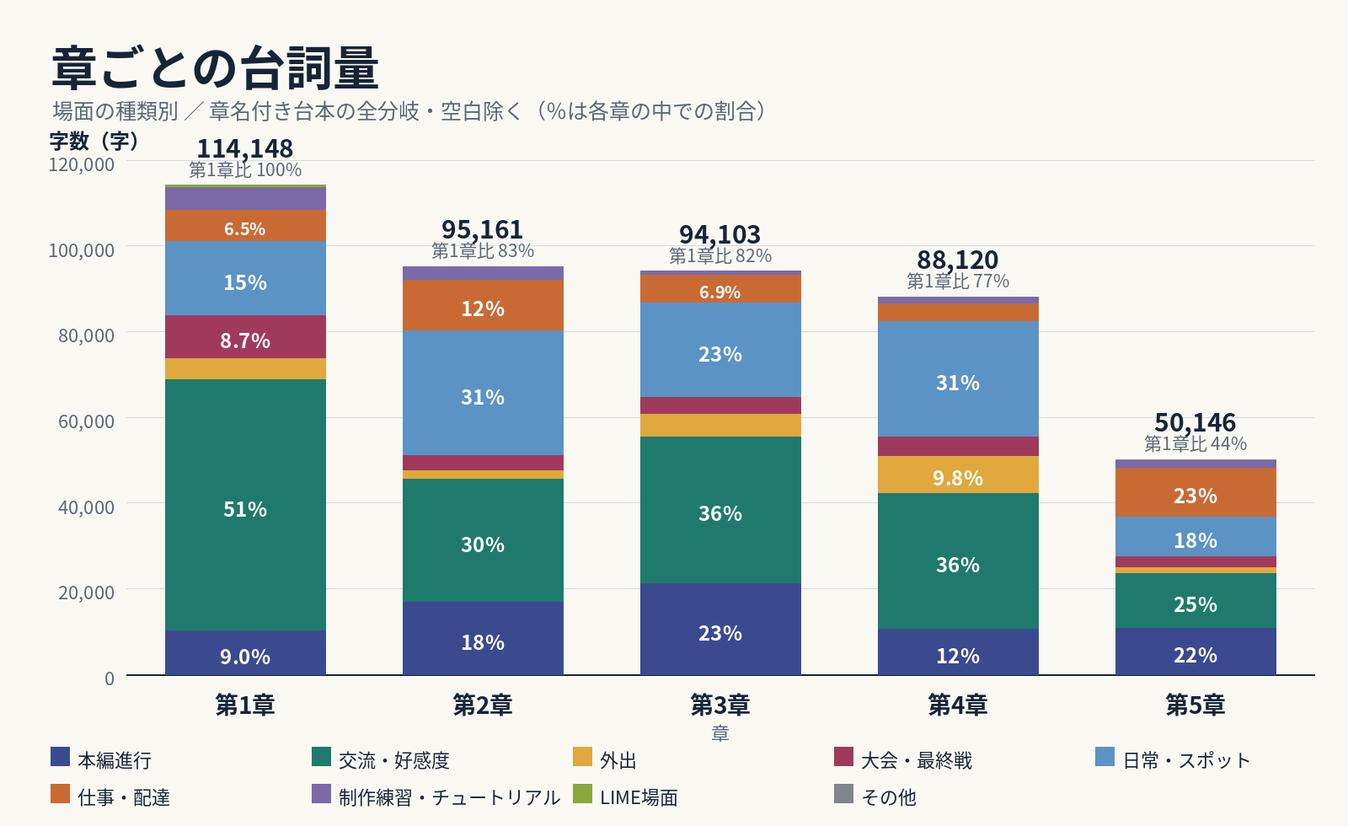
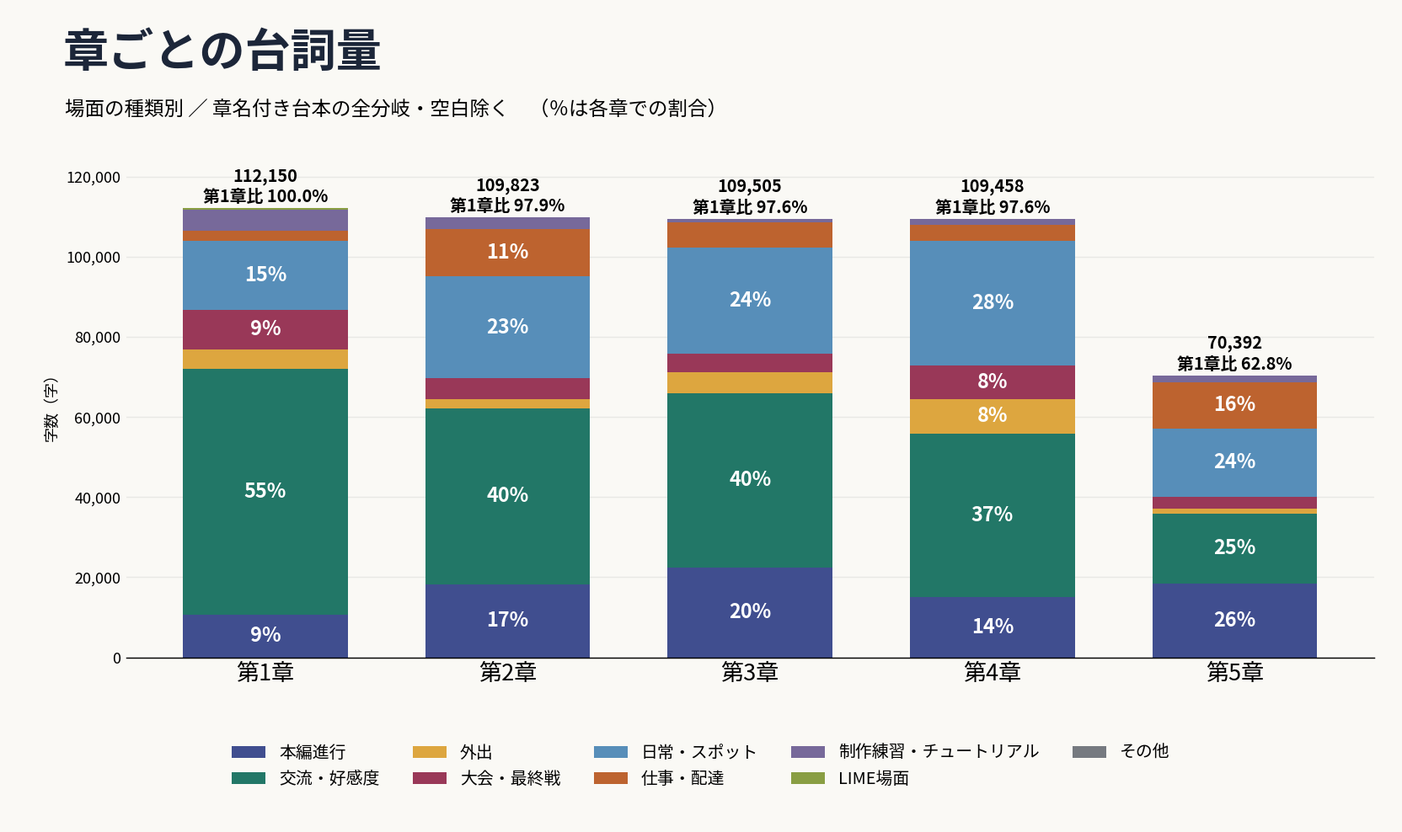
章別の台詞量を再集計し、交流と大会の増補を記録

diff --git a/tools/chapter_volume_breakdown.py b/tools/chapter_volume_breakdown.py
@@ -1,0 +1,124 @@
+#!/usr/bin/env python3
+"""章名付き台本の字数を、レポートの分類表に従ってCSVに出す。--chart でPNGも保存する。"""
+
+import argparse
+import csv
+import re
+import sys
+from collections import Counter, defaultdict
+from fnmatch import fnmatchcase
+from pathlib import Path
+
+from chapter_volume import ROOT, chapter_of, count_text, load_files
+
+REPORT = ROOT / "docs/reports/dialogue-volume-breakdown-3097.md"
+CATEGORIES = ("本編進行", "交流・好感度", "外出", "大会・最終戦", "日常・スポット", "仕事・配達",
+              "制作練習・チュートリアル", "LIME場面", "その他")
+
+
+def rules_from_report():
+    defaults = {}
+    exceptions = defaultdict(list)
+    section = ""
+    for line in REPORT.read_text(encoding="utf-8").splitlines():
+        if line.startswith("#"):
+            section = line
+        if not line.startswith("|"):
+            continue
+        cells = [cell.strip() for cell in line.strip("|").split("|")]
+        if section == "### ファイルごとの基本分類" and cells[0] in CATEGORIES:
+            for name in re.findall(r"`([^`]+)`", cells[1]):
+                if name in defaults:
+                    raise ValueError(f"基本分類が重複: {name}")
+                defaults[name] = cells[0]
+        if section == "### 場面IDで上書きする分類" and cells[0].startswith("`"):
+            name, category, patterns = cells
+            if category not in CATEGORIES:
+                raise ValueError(category)
+            exceptions[name.strip("`")].extend((p, category) for p in re.findall(r"`([^`]+)`", patterns))
+    return defaults, exceptions
+
+
+def breakdown(files):
+    defaults, exceptions = rules_from_report()
+    if files.keys() != defaults.keys():
+        raise ValueError(f"対象ファイルと分類表の差: {sorted(files.keys() ^ defaults.keys())}")
+    rows = defaultdict(Counter)
+    for name, data in files.items():
+        subtotal = 0
+        for scene in data["dialogues"]:
+            scene_id = scene["dialogue_id"]
+            matches = [cat for pattern, cat in exceptions[name] if fnmatchcase(scene_id, pattern)]
+            if len(matches) > 1:
+                raise ValueError(f"分類が重複: {name}/{scene_id}")
+            chars = count_text(scene)
+            rows[chapter_of(name)][matches[0] if matches else defaults[name]] += chars
+            subtotal += chars
+        if subtotal != count_text(data):
+            raise ValueError(f"場面合計とファイルの文字数が不一致: {name}")
+    return rows
+
+
+def draw_chart(rows, output, font):
+    import matplotlib
+    matplotlib.use("Agg")
+    import matplotlib.pyplot as plt
+    from matplotlib import font_manager, ticker
+
+    if font:
+        font_manager.fontManager.addfont(font)
+        plt.rcParams["font.family"] = font_manager.FontProperties(fname=font).get_name()
+    else:
+        plt.rcParams["font.family"] = ["Noto Sans CJK JP", "sans-serif"]
+    colors = ["#404e8f", "#227767", "#dda63f", "#993858", "#578eb9",
+              "#bd632f", "#77699a", "#899e43", "#767a80"]
+    chapters = sorted(rows)
+    totals = [sum(rows[ch].values()) for ch in chapters]
+    bottom = [0] * len(chapters)
+    fig, ax = plt.subplots(figsize=(12.8, 7.6))
+    fig.subplots_adjust(left=.09, right=.98, top=.82, bottom=.21)
+    fig.patch.set_facecolor("#faf9f5")
+    ax.set_facecolor("#faf9f5")
+    fig.text(.045, .92, "章ごとの台詞量", fontsize=30, weight="bold", color="#1c2639")
+    fig.text(.046, .862, "場面の種類別 ／ 章名付き台本の全分岐・空白除く　（％は各章での割合）", fontsize=13)
+    for category, color in zip(CATEGORIES, colors):
+        values = [rows[ch][category] for ch in chapters]
+        ax.bar(chapters, values, .68, bottom=bottom, color=color, label=category)
+        for i, value in enumerate(values):
+            if value >= max(totals) * .061:
+                ax.text(chapters[i], bottom[i] + value / 2, f"{100 * value / totals[i]:.0f}%",
+                        ha="center", va="center", color="white", weight="bold", fontsize=13)
+            bottom[i] += value
+    for ch, total in zip(chapters, totals):
+        ax.annotate(f"{total:,}\n第1章比 {100 * total / totals[0]:.1f}%", (ch, total),
+                    xytext=(0, 4), textcoords="offset points", ha="center", fontsize=11, weight="bold")
+    ax.set_xticks(chapters, [f"第{ch}章" for ch in chapters], fontsize=15)
+    ax.set_ylim(0, max(totals) * 1.13)
+    ax.yaxis.set_major_formatter(ticker.StrMethodFormatter("{x:,.0f}"))
+    ax.set_ylabel("字数（字）")
+    ax.grid(axis="y", alpha=.23)
+    ax.set_axisbelow(True)
+    for side in ["top", "right", "left"]:
+        ax.spines[side].set_visible(False)
+    ax.tick_params(length=0)
+    fig.legend(loc="lower center", ncol=5, frameon=False, fontsize=11, bbox_to_anchor=(.5, .035))
+    fig.savefig(output, dpi=130)
+    plt.close(fig)
+
+
+def main():
+    parser = argparse.ArgumentParser(description=__doc__)
+    parser.add_argument("--chart", type=Path, help="積み上げ棒グラフの保存先（要matplotlibと日本語フォント）")
+    parser.add_argument("--font", help="グラフ用日本語フォントのパス")
+    args = parser.parse_args()
+    rows = breakdown(load_files(None))
+    writer = csv.writer(sys.stdout, lineterminator="\n")
+    writer.writerow(("章", *CATEGORIES, "合計"))
+    for chapter, counts in sorted(rows.items()):
+        writer.writerow((chapter, *(counts[c] for c in CATEGORIES), sum(counts.values())))
+    if args.chart:
+        draw_chart(rows, args.chart, args.font)
+
+
+if __name__ == "__main__":
+    main()

diff --git a/docs/reports/dialogue-volume-breakdown-3097.md b/docs/reports/dialogue-volume-breakdown-3097.md
@@ -1,45 +1,53 @@
-# 台詞量の内訳（章 × 場面の種類）
+# 章ごとの台詞量と場面別の内訳
 
-計測対象は main の `1a8299ad8864452220b71302d8ed97320eb740ed`。
+2026年11月28日、main の [bfec5e97](https://github.com/haseatsu114514-dot/shisha-game/commit/bfec5e970921432cabf2b1be2f3abcd0e019e4a0) を集計。**全台本フォルダーの本文は833,935字**。このうち章名付き80ファイルが511,328字、章名のない47ファイルが322,607字。以下のグラフと表は、前回と同じく章名付き台本の全分岐を対象とする。1回のプレイで読む字数は、選択肢・訪問先・交友関係で変わる。
 
-章名付き台本の全分岐を集計。構成比は各章の総字数が分母で、小数第2位への丸めにより表示値の和に端数が出る。
+![章ごとの台詞量を9種類の場面に分けた積み上げ棒グラフ](dialogue-volume-breakdown-3097.png)
 
 ## 字数
 
 | 章 | 本編進行 | 交流・好感度 | 外出 | 大会・最終戦 | 日常・スポット | 仕事・配達 | 制作練習・チュートリアル | LIME場面 | その他 | 合計 |
 | --- | ---: | ---: | ---: | ---: | ---: | ---: | ---: | ---: | ---: | ---: |
-| 第1章 | 10,258 | 58,752 | 4,930 | 9,983 | 17,223 | 7,385 | 5,202 | 415 | 0 | 114,148 |
-| 第2章 | 16,975 | 28,672 | 2,068 | 3,470 | 29,218 | 11,833 | 2,925 | 0 | 0 | 95,161 |
-| 第3章 | 21,378 | 34,252 | 5,285 | 3,859 | 22,066 | 6,463 | 800 | 0 | 0 | 94,103 |
-| 第4章 | 10,637 | 31,799 | 8,653 | 4,560 | 26,926 | 4,011 | 1,534 | 0 | 0 | 88,120 |
-| 第5章 | 11,002 | 12,781 | 1,280 | 2,674 | 9,164 | 11,478 | 1,659 | 0 | 108 | 50,146 |
+| 第1章 | 10,643 | 61,349 | 4,930 | 9,918 | 17,250 | 2,437 | 5,208 | 415 | 0 | 112,150 |
+| 第2章 | 18,270 | 43,976 | 2,304 | 5,138 | 25,374 | 11,834 | 2,927 | 0 | 0 | 109,823 |
+| 第3章 | 22,416 | 43,561 | 5,281 | 4,591 | 26,393 | 6,463 | 800 | 0 | 0 | 109,505 |
+| 第4章 | 15,117 | 40,708 | 8,640 | 8,499 | 30,949 | 4,011 | 1,534 | 0 | 0 | 109,458 |
+| 第5章 | 18,502 | 17,325 | 1,280 | 2,977 | 17,006 | 11,611 | 1,691 | 0 | 0 | 70,392 |
+| 全章 | 84,948 | 206,919 | 22,435 | 31,123 | 116,972 | 36,356 | 12,160 | 415 | 0 | 511,328 |
 
 ## 章ごとの構成比
 
 | 章 | 本編進行 | 交流・好感度 | 外出 | 大会・最終戦 | 日常・スポット | 仕事・配達 | 制作練習・チュートリアル | LIME場面 | その他 | 合計 |
 | --- | ---: | ---: | ---: | ---: | ---: | ---: | ---: | ---: | ---: | ---: |
-| 第1章 | 8.99% | 51.47% | 4.32% | 8.75% | 15.09% | 6.47% | 4.56% | 0.36% | 0.00% | 100.00% |
-| 第2章 | 17.84% | 30.13% | 2.17% | 3.65% | 30.70% | 12.43% | 3.07% | 0.00% | 0.00% | 100.00% |
-| 第3章 | 22.72% | 36.40% | 5.62% | 4.10% | 23.45% | 6.87% | 0.85% | 0.00% | 0.00% | 100.00% |
-| 第4章 | 12.07% | 36.09% | 9.82% | 5.17% | 30.56% | 4.55% | 1.74% | 0.00% | 0.00% | 100.00% |
-| 第5章 | 21.94% | 25.49% | 2.55% | 5.33% | 18.27% | 22.89% | 3.31% | 0.00% | 0.22% | 100.00% |
+| 第1章 | 9.49% | 54.70% | 4.40% | 8.84% | 15.38% | 2.17% | 4.64% | 0.37% | 0.00% | 100% |
+| 第2章 | 16.64% | 40.04% | 2.10% | 4.68% | 23.10% | 10.78% | 2.67% | 0.00% | 0.00% | 100% |
+| 第3章 | 20.47% | 39.78% | 4.82% | 4.19% | 24.10% | 5.90% | 0.73% | 0.00% | 0.00% | 100% |
+| 第4章 | 13.81% | 37.19% | 7.89% | 7.76% | 28.27% | 3.66% | 1.40% | 0.00% | 0.00% | 100% |
+| 第5章 | 26.28% | 24.61% | 1.82% | 4.23% | 24.16% | 16.49% | 2.40% | 0.00% | 0.00% | 100% |
 
-## 要点
+## 交流と大会の再点検（VOL23）
 
-- 第1章は交流・好感度が最多で、58,752字（51.47%）。
-- 第2章は日常・スポットが29,218字（30.70%）で、交流・好感度の28,672字を上回る。第3章は本編進行が5章中最多の21,378字。
-- 第4章は外出が5章中最多の8,653字。第5章では仕事・配達が11,478字（22.89%）で、このうち出張シーシャの依頼と事業発足の台本が10,961字。
-- その他は全4場面・108字。LIME場面の欄には章名付き台本内でLIMEのメッセージを読む場面が入る。LIME専用データは集計範囲外。
+第2〜4章の総量は第1章の97.6〜97.9%。交流・好感度は第1章の61,349字に対して、第2章43,976字、第3章43,561字、第4章40,708字。第4章には別枠の外出8,640字と日常・スポット30,949字があり、ツアーや現地での再訪でも人と話す。各枠の字数と、実際に誰とどこで会話できるかを併せて判断した。
 
-## グラフ
+| 章 | 任意で読める交流 | 大会中とその後 |
+| --- | --- | --- |
+| 第2章 | 地元の店で7人に計30場面。みんとの傘の話、つむぎが客席で聞く炭の音など、通うと前と違う話を聞ける。 | 提供・調整の合間と講評待ちに出場者が話す。終了後に自分の一台を吸い、苺の香りまで遠く感じる場面は、はじめの感覚に集中する。 |
+| 第3章 | mukaiの奥の部屋で休むと、連絡先を知っている地元の10人から計17本（6,844字）の候補。初回の休みは部屋で過ごし、先約のある夜や来訪中の相手には条件が付く。 | 全国大会は最後に台から手を離した四人のやりとりまである。優勝の夜は奥の部屋に一人で戻り、スミさんに連絡する。 |
+| 第4章 | 宿で昼に休むと、現地に来ていない知人13人から計20本（6,316字）の候補。初回の休みを終えてから、読める相手の一人目の電話を二本目より先に選ぶ。 | 世界大会では客席の声が入り、優勝後には朝に送り出した人が客席から降りてくる。来場者から恋人を先に最大4人。その日の顔ぶれで台詞が変わる。 |
 
-![章ごとの台詞字数を場面の種類で色分けした積み上げ棒グラフ](dialogue-volume-breakdown-3097.png)
+共通台本 `tournament_craft.json` は章別グラフの範囲外。例として、章指定のある幕間（`interlude1/2/3` と `interlude_pull`）、工程終了（`roundend`）、客席（`stands`）だけでも、第2章16場面・1,565字、第3章3場面・490字、第4章27場面・1,540字ある。勝敗や票、来場者による差分を含む。[大会中の台本選択](../../remake/js/craft/tournament-story-data.js)
+
+**VOL23は今回の増補分を完了とした。** 当初薄かった地元の顔なじみとの再訪・電話と、大会途中の待ち時間・来場者の応援に、実装上の入口と台本の両方を確認した。第2章の味が遠のく場面、第3章の優勝の夜には会話を追加しない。第5章はもともと増量目標の対象外。
+
+## LIMEの読み方
+
+グラフの415字は、第1章の章名付き台本でなる・アダムのメッセージを読む2場面。受信箱には別データから全章のメッセージが届く。朝の通常枠は2通、重要な連絡が重なると最大3通で、シフトの誘いは別枠。同じ人の普段の雑談は関係に応じて2〜6日空け、雑談が2朝続くと次の朝は休む。仕事を除く未読が3通以上ある間も日常の雑談を抑える。ここで示したのは配信条件で、プレイ中の平均受信数は未計測。[朝の配信条件](../../remake/js/daily/lime-pacing.js)
 
 ## 集計方法と分類の定義
 
 [既存の章別計測](../../tools/chapter_volume.py)の `load_files`、`chapter_of`、`count_text` を再利用した。対象は `data/dialogue/` 直下の `chN*.json` と `remake_chN*.json`（Nは1〜5）。各 `dialogues[]` 要素の `text` 文字列を再帰走査し、Pythonの正規表現 `\s` に一致する空白を除いた文字数を足した。選択肢や条件で分かれる本文も、`text` で保存されていれば一律に含む。場面件数は `dialogues[]` の要素数で、分岐数・周回時の再生数・プレイヤーが一度のプレイで読む量には換算しない。台本内の置換用文字列は保存されている形で数えた。JS内の文言、章名のない台本、LIME専用データ（`lime_*.json` や `data/lime_messages.json`）は対象外。
 
-章はファイル名で決める。例えば、`ch3_ch4_home.json` の `ch4_prep_adam` は第3章、`remake_ch1.json` にある第2〜5章用のシフト差分は第1章に入る。
+章はファイル名で決める。例えば、`ch3_ch4_home.json` の `ch4_prep_adam` は第3章に入る。
 
 | 種類 | 判定に使った場面・進行定義 |
 |---|---|
@@ -51,7 +59,7 @@
 | 仕事・配達 | 店のシフト、店番・仕事の手伝い、買い出し・配達、出張シーシャ。`daily/calendar.js`、`ch3-outing-progress.js` の手伝い・店番、`ch4-staff-work-progress.js`、`ch5-catering.js` などを参照。 |
 | 制作練習・チュートリアル | 初回の遊び方、成長盤の案内、制作の試作・リハーサルやその講評。`first-brew.js`、`daily/reflection.js`、`ch2-craft-prep.js`、`ch4-inn-trial.js`、`ch5-sumi-trial.js` などを参照。 |
 | LIME場面 | 第1章の大会後、なる・アダムからのLIME本文を章名付き台本で再生する2場面。対面でLIMEを交換する場面は交流・好感度。 |
-| その他 | 進行上の種類を割り当てられない未接続・テスト用・空の台本。下表に全件を記載。 |
+| その他 | 進行上の種類を割り当てられない未接続・テスト用・空の台本。今回の該当は0件。 |
 
 進行・行動を確認してファイルごとに基本の種類を割り当て、複数の種類を含むファイルでは下表の場面IDを優先した。1つの要素は1種類にだけ入る。`*` は末尾の任意の文字列（0文字も含む）。ファイル名は `data/dialogue/` からの相対名で、拡張子 `.json` を省略した。
 
@@ -60,7 +68,7 @@
 | 種類 | ファイル |
 | --- | --- |
 | 本編進行 | `ch1_main`, `ch1_interval`, `ch2_choice_echoes`, `ch2_isolation`, `ch2_main`, `ch2_story_extra`, `remake_ch2`, `ch3_departure`, `ch3_double_apple`, `ch3_main`, `ch3_prologue`, `ch4_dubai_story`, `ch4_main`, `ch5_main`, `ch5_party` |
-| 交流・好感度 | `ch1_adam`, `ch1_ageha`, `ch1_bonds`, `ch1_events`, `ch1_minto`, `ch1_naru`, `ch1_rio`, `ch1_sumi`, `ch1_tsumugi`, `ch2_ageha_story`, `ch2_kumicho`, `ch2_preparation`, `ch2_rei`, `ch3_ch4_home`, `ch3_growth_party`, `ch3_mashiro`, `ch3_rivals`, `ch3_saku_mashiro`, `ch3_tsumugi`, `ch3_volk`, `ch4_ageha_dubai`, `ch4_arrival_daily`, `ch4_companion`, `ch4_guests_dubai`, `ch4_longlong`, `ch4_lovers`, `ch4_mashiro_dubai`, `ch4_minto_dubai`, `ch4_prep_home`, `ch4_rio_dubai`, `ch4_tsumugi_dubai`, `ch4_visitors` |
+| 交流・好感度 | `ch1_adam`, `ch1_ageha`, `ch1_bonds`, `ch1_events`, `ch1_minto`, `ch1_naru`, `ch1_rio`, `ch1_sumi`, `ch1_tsumugi`, `ch2_ageha_story`, `ch2_kumicho`, `ch2_preparation`, `ch2_rei`, `ch3_ch4_home`, `ch3_growth_party`, `ch3_home_calls`, `ch3_mashiro`, `ch3_rivals`, `ch3_saku_mashiro`, `ch3_tsumugi`, `ch3_volk`, `ch4_ageha_dubai`, `ch4_arrival_daily`, `ch4_companion`, `ch4_guests_dubai`, `ch4_home_calls`, `ch4_longlong`, `ch4_lovers`, `ch4_mashiro_dubai`, `ch4_minto_dubai`, `ch4_prep_home`, `ch4_rio_dubai`, `ch4_tsumugi_dubai`, `ch4_visitors` |
 | 外出 | `ch3_visits`, `ch4_beach`, `ch4_tour` |
 | 大会・最終戦 | `ch1_tournament`, `ch2_tournament`, `ch4_morning` |
 | 日常・スポット | `ch1_incognito`, `ch1_spots`, `ch2_city`, `ch2_city_guests`, `ch2_home`, `ch3_activities`, `ch3_club`, `ch3_mukai`, `ch3_outings`, `ch3_tokyo_daily`, `ch4_camel_race`, `ch4_desert`, `ch4_dubai_daily`, `ch4_spots`, `ch5_dubai`, `ch5_shops`, `ch5_tokyo`, `remake_ch1` |
@@ -86,13 +94,13 @@
 | `remake_ch1` | 制作練習・チュートリアル | `remake_tutorial_*`, `remake_first_brew_*`, `remake_midcheck*`, `remake_rehearsal_*`, `remake_preparation_*`, `remake_naru_match*`, `remake_staff_practice` |
 | `remake_ch1` | 大会・最終戦 | `remake_round*`, `remake_judging_intro`, `remake_defeat_follow`, `remake_sick_tournament` |
 | `remake_ch1` | 本編進行 | `remake_sick_half`, `remake_sick_full`, `remake_homecoming_*` |
-| `remake_ch1` | 仕事・配達 | `remake_baito*`, `remake_day1_errand_*`, `remake_delivery_*`, `remake_lemon_gift`, `shift_flavor_*`, `shift_recall_*`, `shift_return_*` |
+| `remake_ch1` | 仕事・配達 | `remake_baito*`, `remake_day1_errand_*`, `remake_delivery_*`, `remake_lemon_gift` |
 | `remake_ch1` | 交流・好感度 | `remake_shuraba_*` |
 | `ch2_ageha_story` | 本編進行 | `remake_ch2_ageha_scout`, `remake_ch2_ageha_tasting`, `remake_ch2_ageha_slump` |
-| `ch2_deliveries` | 日常・スポット | `remake_ch2_aquarium_*`, `remake_ch2_sento_*`, `remake_ch2_chain_*`, `remake_ch2_purikura_solo` |
-| `ch2_deliveries` | 外出 | `remake_ch2_ageha_purikura`, `remake_ch2_purikura_invite`, `remake_ch2_purikura_pair`, `remake_ch2_purikura_guest`, `remake_ch2_purikura_ryuji`, `remake_ch2_rei_purikura_after` |
-| `ch2_deliveries` | 交流・好感度 | `remake_ch2_rei_trpg`, `remake_ch2_ageha_aquarium`, `remake_ch2_kumicho_sento`, `remake_ch2_ryuji_melty_greeting`, `remake_ch2_rei_melty_greeting` |
-| `ch2_home` | 交流・好感度 | `ch2_rio_taste`, `ch2_rio_strawberry` |
+| `ch2_deliveries` | 日常・スポット | `remake_ch2_aquarium_*`, `remake_ch2_sento_*`, `remake_ch2_chain_*`, `remake_ch2_purikura_solo*` |
+| `ch2_deliveries` | 外出 | `remake_ch2_ageha_purikura`, `remake_ch2_purikura_invite`, `remake_ch2_purikura_match`, `remake_ch2_purikura_choose`, `remake_ch2_purikura_trio`, `remake_ch2_purikura_pair`, `remake_ch2_purikura_guest`, `remake_ch2_purikura_ryuji`, `remake_ch2_kuraudo_purikura_after` |
+| `ch2_deliveries` | 交流・好感度 | `remake_ch2_kuraudo_trpg`, `remake_ch2_ageha_aquarium`, `remake_ch2_kumicho_sento`, `remake_ch2_ryuji_melty_greeting`, `remake_ch2_kuraudo_melty_greeting` |
+| `ch2_home` | 交流・好感度 | `ch2_rio_*`, `ch2_minto_*`, `ch2_adam_*`, `ch2_samechan_*`, `ch2_hiyori_*`, `ch2_naru_*`, `ch2_tsumugi_*` |
 | `ch2_home` | 制作練習・チュートリアル | `ch2_prep_*` |
 | `ch2_kumicho` | 外出 | `outing_*` |
 | `ch2_main` | 制作練習・チュートリアル | `ch2_strawberry_trial_*` |
@@ -101,7 +109,7 @@
 | `ch3_mukai` | 本編進行 | `ch3_mukai_intro`, `ch3_cigarman_rumor`, `ch3_cigarman_shadow`, `ch3_cigarman_trace` |
 | `ch3_outings` | 仕事・配達 | `ch3_outing_mukai_help*`, `ch3_outing_mukai_steve*` |
 | `ch3_outings` | 外出 | `ch3_outing_enmaku_notes`, `ch3_outing_enmaku_answer`, `ch3_outing_steve_timer` |
-| `ch3_rivals` | 本編進行 | `ch3_saku_first`, `ch3_saku_advice`, `ch3_steve_low_heat` |
+| `ch3_rivals` | 本編進行 | `ch3_ayatori_first`, `ch3_ayatori_advice`, `ch3_steve_low_heat` |
 | `ch3_rivals` | 外出 | `outing_*` |
 | `ch3_volk` | 本編進行 | `ch3_volk_first` |
 | `ch3_volk` | 外出 | `outing_*` |
@@ -110,48 +118,29 @@
 | `ch4_dubai_daily` | 交流・好感度 | `ch4_naru_dubai_*`, `ch4_sumi_call_*` |
 | `ch4_dubai_daily` | 制作練習・チュートリアル | `ch4_inn_trial_*`, `ch4_rehearsal_*` |
 | `ch4_longlong` | 日常・スポット | `ch4_longlong_visit_*` |
-| `ch4_main` | 大会・最終戦 | `ch4_wang_reception*`, `ch4_tournament_start`, `ch4_final`, `ch4_result`, `ch4_defeat`, `ch4_sui_old_rival` |
+| `ch4_main` | 大会・最終戦 | `ch4_wang_reception*`, `ch4_tournament_start`, `ch4_final`, `ch4_result`, `ch4_defeat`, `ch4_sensu_old_rival` |
 | `ch4_main` | 日常・スポット | `ch4_festa_revisit`, `ch4_alley_cafe_quiet`, `ch4_dubai_souq_revisit`, `ch4_dubai_cafe_revisit`, `ch4_inn_tool_care` |
 | `ch4_main` | 交流・好感度 | `ch4_samechan_dubai_evening`, `ch4_hiyori_dubai_evening` |
-| `ch4_spots` | その他 | `ch4_return` |
 | `ch5_dubai` | 外出 | `ch5_dubai_go`, `ch5_dubai_back`, `ch5_dubai_arrival` |
 | `ch5_dubai` | 交流・好感度 | `ch5_noor_*`, `ch5_dubai_sheikh*`, `ch5_dubai_taiyo*` |
 | `ch5_main` | 大会・最終戦 | `ch5_match_day_arrival`, `ch5_copy_first_cup`, `ch5_relationship_before_second_cup`, `ch5_second_cup_*`, `ch5_prep_recall_*`, `ch5_sumi_trial_recall_*` |
 | `ch5_main` | 日常・スポット | `ch5_wang_tonari_visit`, `ch5_free_first_visitor` |
-| `ch5_main` | 交流・好感度 | `ch5_free_mashiro_visit*`, `ch5_free_eden_adam`, `ch5_tsumugi_*` |
+| `ch5_main` | 交流・好感度 | `ch5_free_mashiro_visit*`, `ch5_free_eden_adam`, `ch5_tsumugi_serving`, `ch5_tsumugi_makes_for_hajime`, `ch5_tsumugi_busy_night`, `ch5_tsumugi_little_notes`, `ch5_tsumugi_counsel`, `ch5_tsumugi_menu_board` |
 | `ch5_main` | 制作練習・チュートリアル | `ch5_free_tonari_practice`, `ch5_prep_trial_*`, `ch5_prep_adjust_*`, `ch5_prep_keep`, `ch5_sumi_trial_intro`, `ch5_sumi_trial_great`, `ch5_sumi_trial_holes`, `ch5_sumi_trial_heat`, `ch5_sumi_trial_steam`, `ch5_sumi_trial_pull`, `ch5_sumi_trial_failed` |
-| `ch5_main` | その他 | `ch5_dream_in`, `ch5_dream_out`, `ch5_reflection_placeholder` |
 | `ch5_shops` | 交流・好感度 | `ch5_ageha_lover_*`, `ch5_rio_naru_*` |
 | `ch5_tokyo` | 外出 | `ch5_tokyo_van_first`, `ch5_tokyo_go`, `ch5_tokyo_back`, `ch5_tokyo_arrival` |
 | `ch5_tokyo` | 仕事・配達 | `ch5_tokyo_mukai_help*` |
-| `ch5_tokyo` | 交流・好感度 | `ch5_tokyo_steve*`, `ch5_tokyo_volk*`, `ch5_tokyo_saku*`, `ch5_steve_bond_finale`, `ch5_volk_bond_finale` |
+| `ch5_tokyo` | 交流・好感度 | `ch5_tokyo_steve*`, `ch5_tokyo_volk*`, `ch5_tokyo_saku*`, `ch5_tokyo_ayatori*`, `ch5_tokyo_mashiro*`, `ch5_steve_bond_finale`, `ch5_volk_bond_finale` |
 
-### その他の件数と字数
+## 検算と再集計
 
-| 章 | 件数 | 字数 |
-| --- | ---: | ---: |
-| 第1章 | 0 | 0 |
-| 第2章 | 0 | 0 |
-| 第3章 | 0 | 0 |
-| 第4章 | 1 | 0 |
-| 第5章 | 3 | 108 |
-| 合計 | 4 | 108 |
+章名付き80ファイル・1,666場面を分類した。各ファイルで場面合計とJSON全体の `text` の字数が一致し、各章の合計も `tools/chapter_volume.py` の結果と一致する。全台本フォルダーの字数には `data/dialogue/*.json` の同じ本文キーを使用した。フォルダー外の受信箱データ、JS内の台詞、画面の項目名などはこの総数に含めていない。
 
-| ファイル | 場面ID | 字数 | 理由 |
-| --- | --- | --- | --- |
-| `ch4_spots.json` | `ch4_return` | 0 | 空の台本（`ch4-progress.js` に未接続の記載） |
-| `ch5_main.json` | `ch5_dream_in` | 40 | 挿入位置未定（`ch5-progress.js`） |
-| `ch5_main.json` | `ch5_dream_out` | 31 | 挿入位置未定（`ch5-progress.js`） |
-| `ch5_main.json` | `ch5_reflection_placeholder` | 37 | テスト専用（`ch5-progress.js`） |
+今回の分類では、第2章の店で人物本人と話す7人分と第3・4章の地元からの電話を交流に計上した。人物の改名は現在の場面IDに合わせた。第5章のつむぎ視点で始まる8場面は本編、店でのつむぎの訪問6場面は交流に分けた。上表が再集計時の分類表になる。
 
-## 検算
+```sh
+python3 tools/chapter_volume_breakdown.py > chapter-volume.csv
+python3 tools/chapter_volume_breakdown.py --chart chapter-volume.png
+```
 
-全78ファイル・1,465場面を集計し、第1〜5章で既知の総量および `tools/chapter_volume.py` の再実行結果と一致（各章の差は0字）。 各ファイルで場面ごとの総和がJSON全体の `text` の字数と等しいこと、分類規則に重複がないことも確認した。
-
-| 章 | 分類の合計 | 既知の総量 | 差 |
-| --- | ---: | ---: | ---: |
-| 第1章 | 114,148 | 114,148 | 0 |
-| 第2章 | 95,161 | 95,161 | 0 |
-| 第3章 | 94,103 | 94,103 | 0 |
-| 第4章 | 88,120 | 88,120 | 0 |
-| 第5章 | 50,146 | 50,146 | 0 |
+CSV出力はPython標準ライブラリのみで動く。グラフにはmatplotlibと日本語フォントを使用する。`--font` でフォントのファイルを指定できる。

diff --git a/docs/owner_requests.md b/docs/owner_requests.md
@@ -676,7 +676,7 @@
 | VOL20 | ✅ #4083・#4088（計画の3つ） | **交友を第2章以降も厚く**: 第1章の顔ぶれ（スミさん・アダム・凛想・神崎・サメちゃん・クラウドなど）が第2章以降でほとんど話さなくなる（第3章は各0.2〜0.7千字）のが差の中心。会える章は店で、離れている章は電話で、関係を続ける（恋愛の段階は進めない普段の会話）。**第1弾（#4083）**: 第3章、東京の奥の部屋で休むと地元から電話が来る（`data/dialogue/ch3_home_calls.json` の7本・2,775字。LIMEの連絡先にいる人だけ・夜だけの電話は夜に・全国大会の後は出さない）。**第2弾（#4088）**: 第4章、ドバイの昼に宿で休むと、日本（夜）の地元の人から電話が来る（`data/dialogue/ch4_home_calls.json` の8本・2,322字。アダム・凛想・神崎・サメちゃん・みんと・クラウド・ひより・あげは。LIMEの連絡先にいて、今ドバイにいない人だけ・初回の休みの後・夜はスミさんの電話のまま）。第2章は、店での普段の会話の続き5本（`ch2_home.json`。みんとのあだ名の手帳・凛想さんの塩だけのおにぎり・アダムの林檎のお使い・サメちゃんのポスター・ひよりさんの儚い角度。1,958字）。計画は #3097 |
 | VOL21 | ✅ 第1弾・第2弾 #4309・第3弾・第4便 本PR | **ストーリーのバランス**: 本編進行の割合が薄い第4章（12%）・第1章（9%）を厚くする。本筋の出来事・結末は変えず、正本（`brand/story_and_structure.md`）にあって場面になっていない間を足す方針。候補は #3097 に書く。**第1弾**（2026-11-27 オーナー「このレポートをもとにストーリーやイベントを強化して」・台本の文字数内訳の改善案）: 第4章は出発前の「いつ炭を寄せるか」の問いを、会場の下見・スークの炭・路地裏・前夜・決勝・帰国後の店長任命までつなぐ（帰国して最初の営業の夜に鉄仮面さんが二十分を二分延ばす場面を足す）。十五年前の記録の重さも、宿の電話で聞きかけて帰国後に自分から話す形で閉じる（台詞と地の文で約1,060字）。第1章は第5夜の帰宅後のメモ、前夜の「吸う顔を見る」、優勝翌朝の「優勝したお兄さん」（肩書きの種）を足す（約370字）。**第2弾**（2026-11-27 オーナー「さらにボリュームを足りない章を調整」。数え方はオーナーが「公式の物差し（`tools/chapter_volume.py`）で足す」を選んだ。レポートの数え方では第3・4章が第1章より多いが、公式の物差しでは第2〜4章とも不足だったため）: 第2章は県大会の当日（会場に着く・控室の神崎とクラウド・同じ苺を四人が違う所で確かめる・勝因を「点を落とさない順番」と答える・上園さんの一言・博士へ温度計を返す）と、その夜の閉店後のtonariでスミさんと飯を食う場面（会長の一口に、スミさんは箸を止めるだけ）。第3章は出発前のスミさんの茶・ムカイさんの戸締まりと伝票・全国大会の朝と試喫の客・ましろの「言えることから一つずつ」・鍵を返す「皿洗いから」と、任意場面3本（量りのコーヒー・てつこの皿・福岡からの小包。RLS10⑥）。第4章は出発前のクナイのトングとテープ・タクシーの「この街は、夜に座る」・市場で風を見る男・前夜祭の入口・舞台袖の控室と抽選の客・審査員の講評・屋敷の種明かし・帰国後の焼き飯・大会の朝のなる、本筋の夜2本（DAY8 通りのカフェで客の休み方を見る・DAY12 宿の夜番のおじさんに作り直す）。公式の物差しで第2章 104,026→105,774（97%）・第3章 101,247→103,906（95%）・第4章 98,824→104,306（95%。第1弾を含む）。正本に沿って足せる材料を使い切った所で止めた。**第3弾**（2026-11-27 オーナー「続けて良い」。正本の筋を使い切った残りを、正本と矛盾しない小さな新しい出来事で埋める）: 第2章は柚ヶ谷の三軒の通いの小会話8本（看板を下ろした店のトング・ソファの肘の継ぎ当て・貸し傘・新しい店への挨拶・黒いコートの灰・ギターの弦・鉢植え・飾り文字のメニュー）と行き帰りの電車の小品4本。第3章は任意場面8本（RLS10⑥: 辛いまかない・看板の電球・暗い店の音・眠れるコーヒー・ろうそく一本・名前を伏せた豆・乾物屋の昼・かすれ声の夜）。第4章はドバイの日常に初めて起きる出来事19本（スークの値切り・ウードの香油・ノートの置き忘れ・「light」の行き違い・ホースの空気漏れ・ゴールの間の炭替え・盤の席・いつもの席・暑さに当たった客・なるとの白いシャツ／ロビーの上着／カップ麺／背中合わせのノート・練習会場の冷房・ボトルのひび・絵はがき・「ゆっくりどうぞ」・タオルのラクダ・渡し舟の小銭・貨物船の夕食）。同じ場所の再訪の前置きや感想は繰り返さない。好感度・能力・お金は動かさない。公式の物差しで第2章 108,968（99%）・第3章 109,170（100%）・第4章 109,348（100%）。**第4便**（2026-11-27 オーナー「さらに不足分を」）: 第2章は行き帰りの電車の小品2本（答案を見せ合う高校生の「点にならないのが、うれしい」・負けた試合を笑って話す会社員。はじめはまだ点と勝ちの側にいる）、第3章は任意場面「入口の黒板」（味が言えなくても店のことなら書ける。味が戻る前だけ）、第4章は宿で休む場面「シャツが一時間で乾く」（葉の袋の口を確かめ直す）。公式の物差しで第2章 109,528・第3章 109,519・第4章 109,530（第1章 109,519。三章とも第1章の量に届いた）。📥 続き: レポートの「第4章ドバイの日常の再訪の圧縮」は、公式の物差しでは第4章を減らす向きになるので保留。練習・説明の第1章への寄せ（中） |
 | VOL22 | ✅ #4087 | **大会中の途中の会話を厚く**（2026-11-21 オーナー「あとは大会中の途中の会話とかも厚くしたい」）: 第4章（世界大会）は、制作中の合間の会話が第2・3章の半分ほどだった。吸い出しの前の4人の心の声（新設。第2章の interlude_pull に当たる）、提供後・調整1回目の後の審査員の一言（新設。第2章の区切りの実況に当たる）、客席の応援の声（新設。大会の朝に一言をくれた人の一人目を調整1回目の後、二人目を提供後。14人分）、既存の合間の会話の延長。第3章（全国大会）は、最後の調整を終えて手を離した後の待ち時間（新設。第2章の interlude3 に当たる。客席のましろが出る）。合間の会話は4〜7行のテンポの決まりを守り、場面を増やす形にした |
-| VOL23 | 🔧 作業中 | **差が大きい所を埋める**（2026-11-21 オーナー「再度調整を続けて特に差が大きいとこを埋めたい」「埋めるのを進めて」）: 場面の種類別の集計で、第1章との差がいちばん大きいのは交流・好感度（第4章 −24,595字・第3章 −21,689字・第2章 −20,016字。第2章は、地元の人たちとの店の会話を交流に数え直した後の値）、次が大会・最終戦（各章 −5,400〜6,500字）。**第3弾（#4088）**: 第4章は宿の昼の電話4本・友人として来た人の夕方6本・恋人として来たひよりの到着の増補（約3,050字）、第3章は奥の部屋の電話3本（869字）、第2章は店の普段の会話5本。**第4弾（#4092・大会・最終戦の差）**: 第4章の世界大会は、優勝の結果発表のあと、ドバイまで来た人が一度も出てこなかった。朝に送り出してくれた同じ人（その場にいる人だけ・恋人を先に・最大4人）が客席から降りてきて一言ずつかける（`ch4_morning.json` の24場面・2,058字。14人分と、恋人になれる7人の恋人版。好感度・能力・お金は動かさない）。**第5弾（本PR）**: 第2章のつむぎは、シフト上がりの会話（仕事に数える）だけで、交流が0字だった。客としてtonariへ来た日に、窓際の常連席のつむぎと話す会話3本（木炭と食パン・電車に乗せる猫・客席から聞く炭の音）。なるは、看板の電球の回で「それは、今度な」と言ったモンブランの話の続き1本（祝いの後・対峙より前だけ）。`ch2_home.json` の4本・1,462字。大会・味の感想・コンテストの結果・煙の色に触れない。計画は #3097 |
+| VOL23 | ✅ 2026-11-28 再点検 | [最新の字数・場面別内訳](reports/dialogue-volume-breakdown-3097.md)。第2章の地元の店7人30場面、第3章の地元電話10人17本、第4章の地元電話13人20本と大会の幕間・応援を確認。優勝の夜など章の余韻を残し、今回の増補は完了。 **差が大きい所を埋める**（2026-11-21 オーナー「再度調整を続けて特に差が大きいとこを埋めたい」「埋めるのを進めて」）: 場面の種類別の集計で、第1章との差がいちばん大きいのは交流・好感度（第4章 −24,595字・第3章 −21,689字・第2章 −20,016字。第2章は、地元の人たちとの店の会話を交流に数え直した後の値）、次が大会・最終戦（各章 −5,400〜6,500字）。**第3弾（#4088）**: 第4章は宿の昼の電話4本・友人として来た人の夕方6本・恋人として来たひよりの到着の増補（約3,050字）、第3章は奥の部屋の電話3本（869字）、第2章は店の普段の会話5本。**第4弾（#4092・大会・最終戦の差）**: 第4章の世界大会は、優勝の結果発表のあと、ドバイまで来た人が一度も出てこなかった。朝に送り出してくれた同じ人（その場にいる人だけ・恋人を先に・最大4人）が客席から降りてきて一言ずつかける（`ch4_morning.json` の24場面・2,058字。14人分と、恋人になれる7人の恋人版。好感度・能力・お金は動かさない）。**第5弾（本PR）**: 第2章のつむぎは、シフト上がりの会話（仕事に数える）だけで、交流が0字だった。客としてtonariへ来た日に、窓際の常連席のつむぎと話す会話3本（木炭と食パン・電車に乗せる猫・客席から聞く炭の音）。なるは、看板の電球の回で「それは、今度な」と言ったモンブランの話の続き1本（祝いの後・対峙より前だけ）。`ch2_home.json` の4本・1,462字。大会・味の感想・コンテストの結果・煙の色に触れない。計画は #3097 |
 | VOL24 | ✅ #4128・`5bf22a494` | **ぺぱーみんとのパンの冗談**（2026-11-21 オーナー「パンがなければ、ミントを吸えばいいじゃない♡ これ入れたいです」）。第2章のミントの強さの札を作る来店会話。店内のかわいさを見て品ぞろえが気になったはじめが、パンを頼む客がいるか聞く。みんとはパン専用の台が壊れ、注文もまれなので今は取り扱いをやめたと答え、指定の一言を返す。 |
 
 ## 2026-11-20 吸い出しのゲージを厳しくする（PST01〜04）
